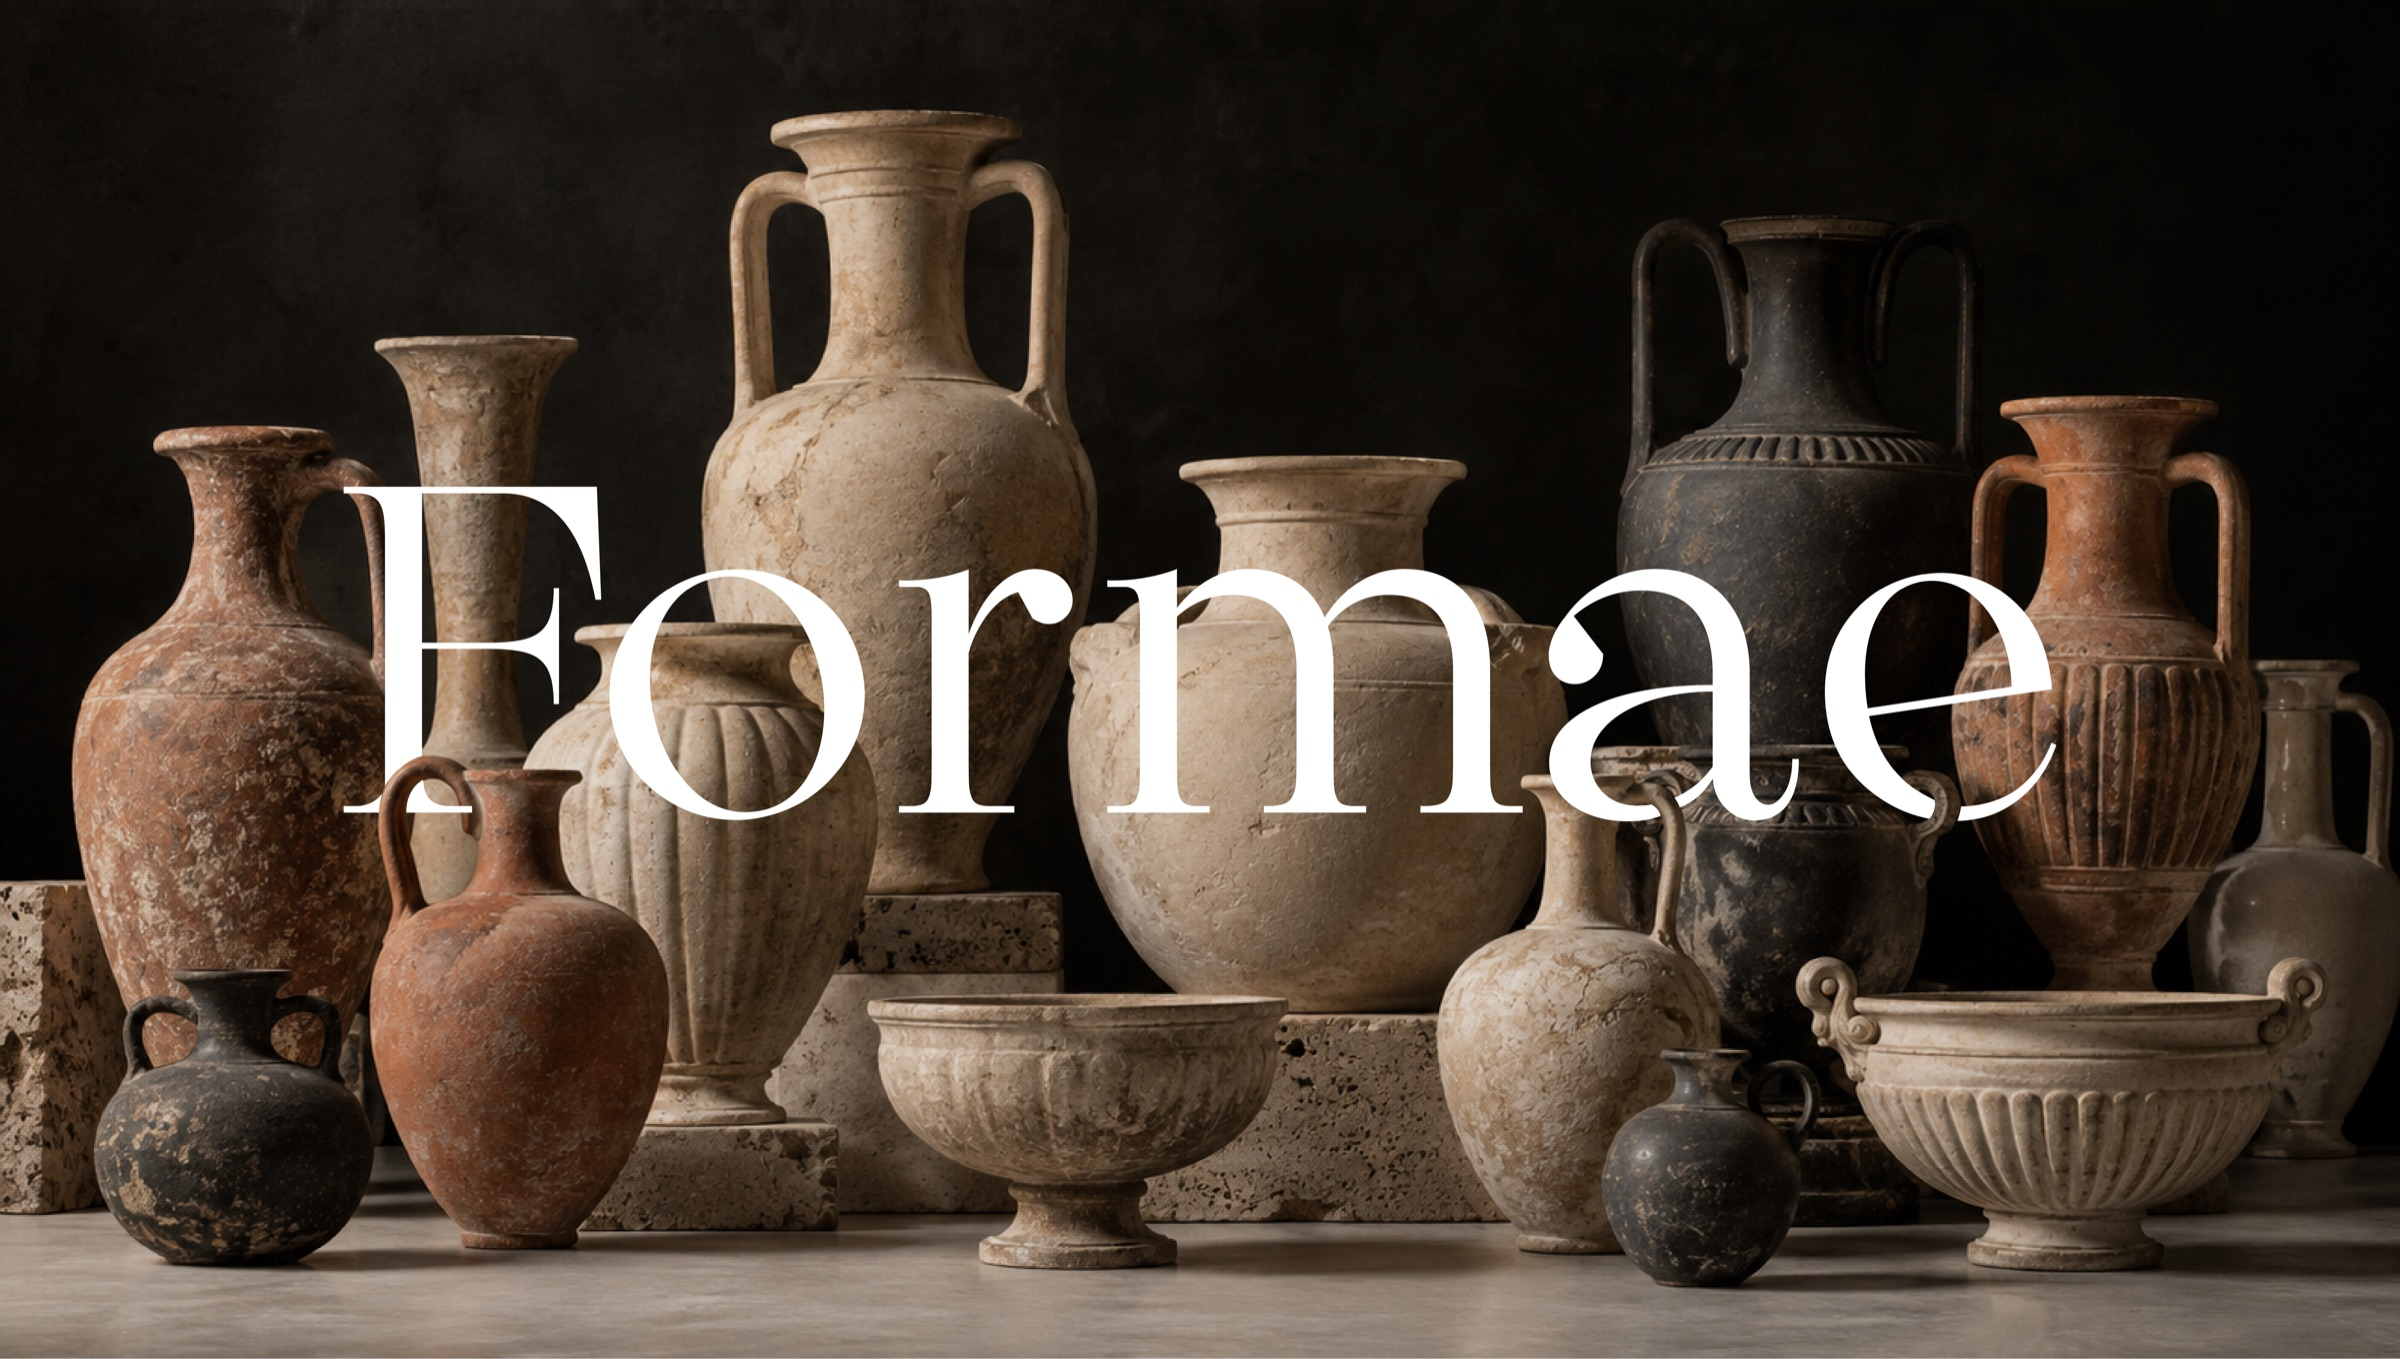
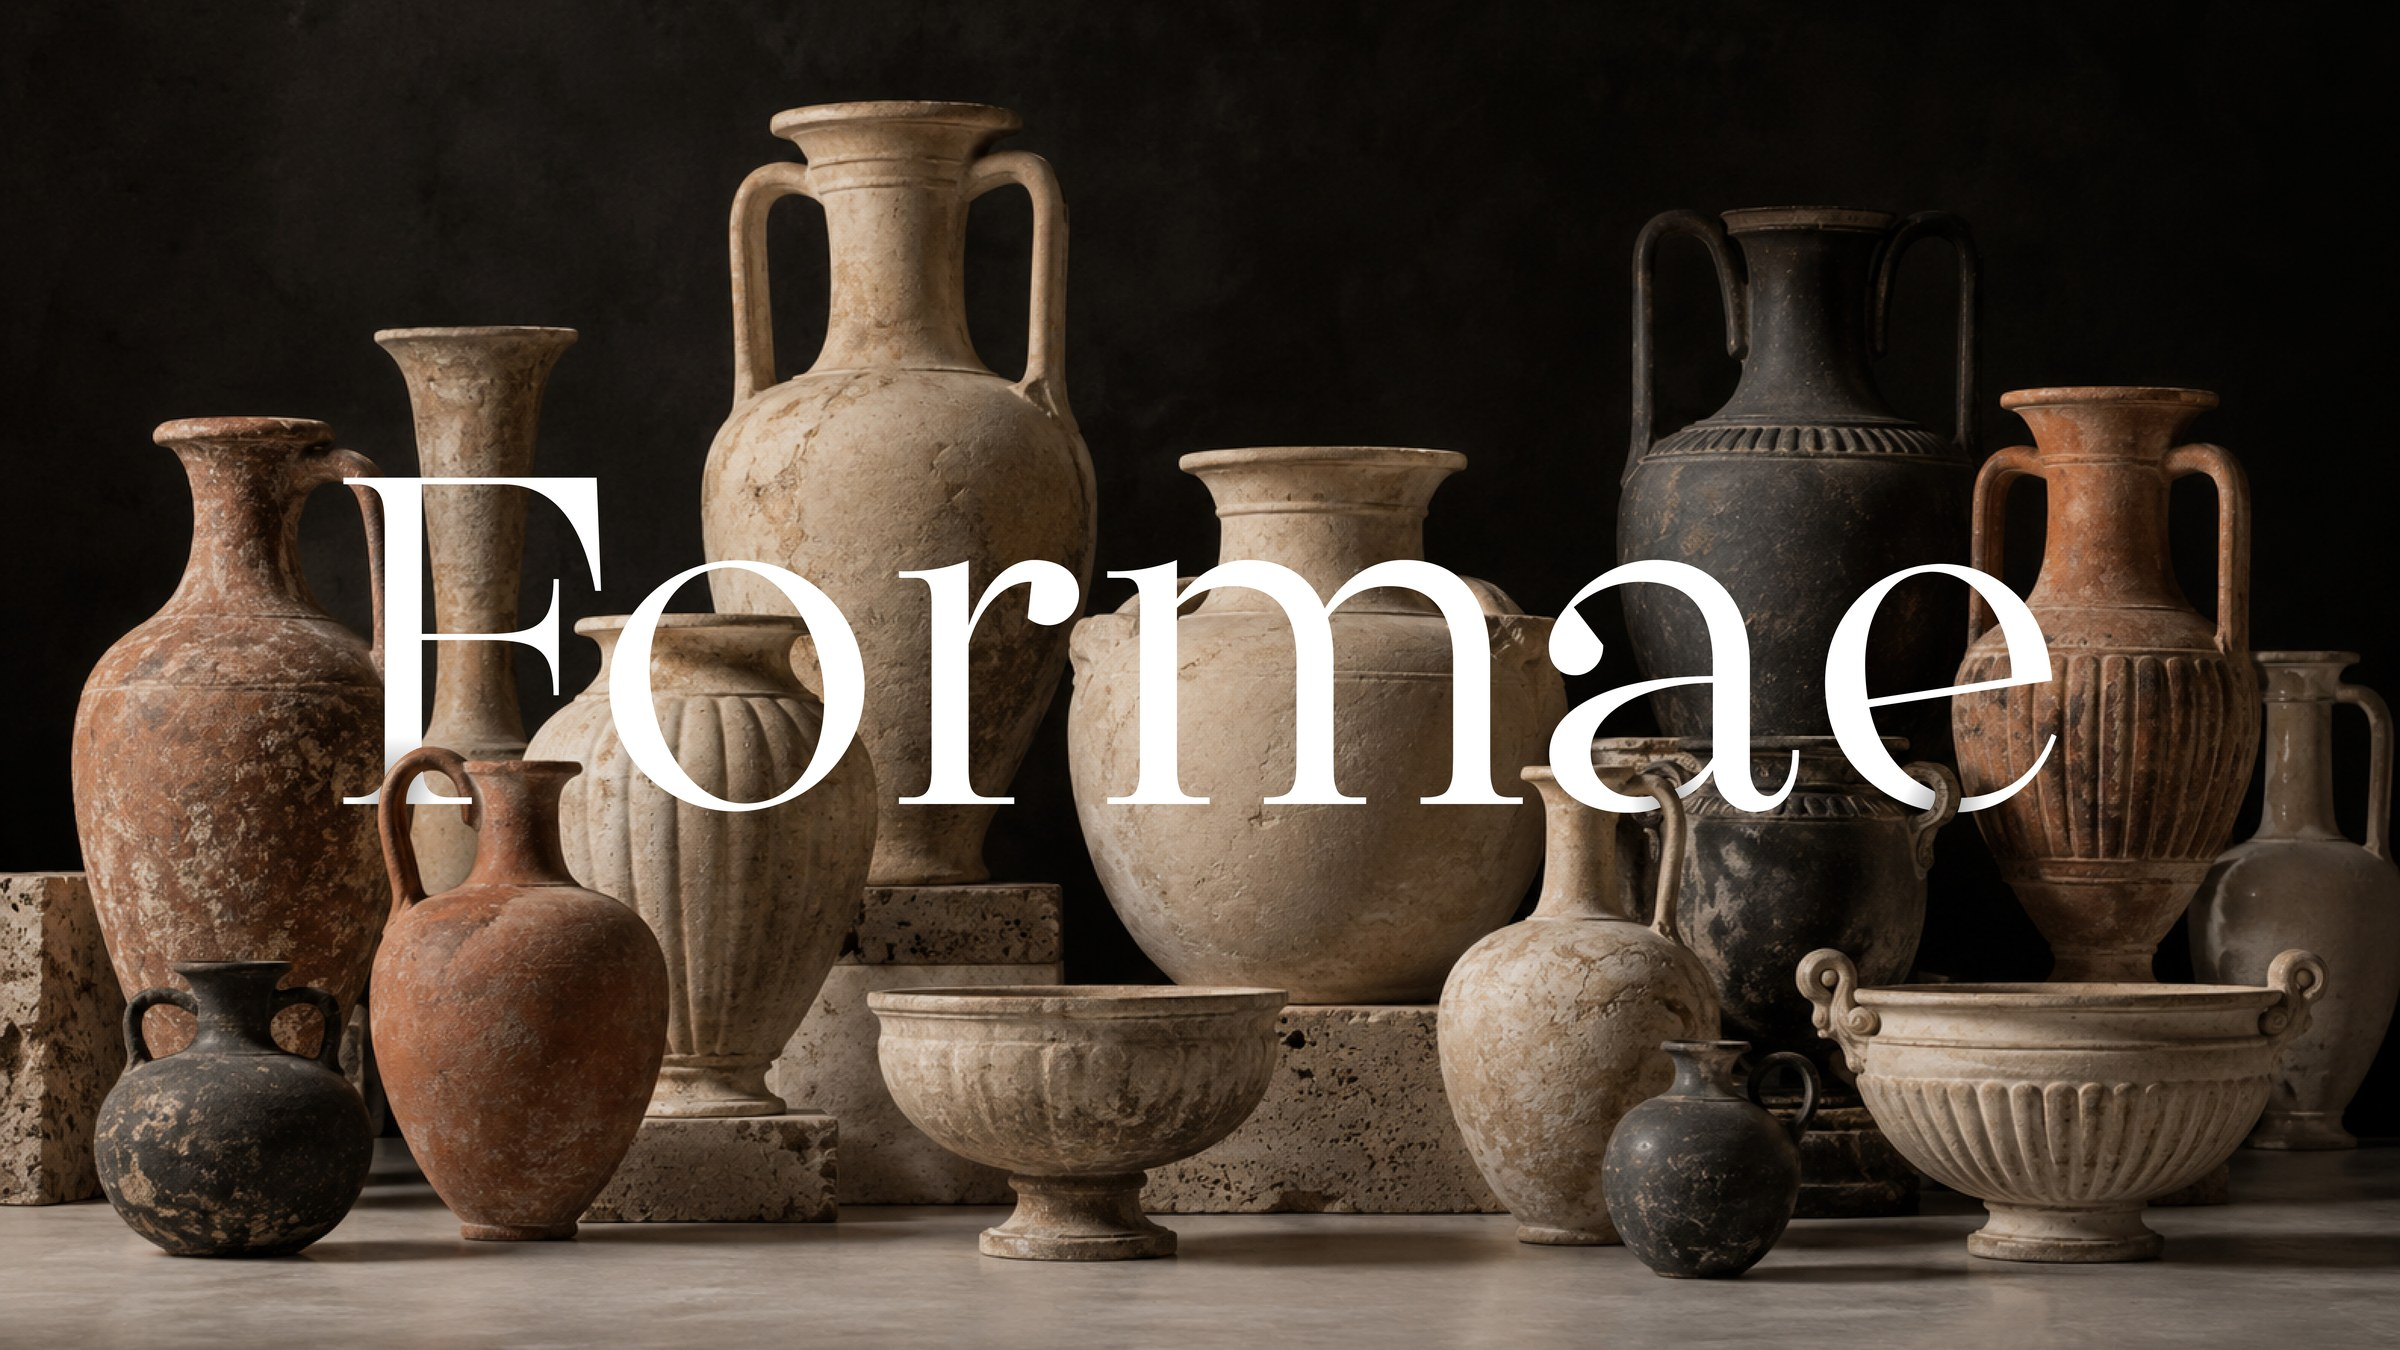
Formae: newest Formae-Regular (15:39) + new start image (repo 92c711b)

diff --git a/formae/index.html b/formae/index.html
@@ -7,7 +7,7 @@
 
   <title>Formae</title>
 
-  <link rel="stylesheet" href="style.css?v=widescale12">
+  <link rel="stylesheet" href="style.css?v=widescale14">
 </head>
 
 
@@ -43,7 +43,7 @@
   <main><div id="typefaces" aria-hidden="true"></div>
 
 <section class="formae-hero-section">
-      <img class="formae-hero" src="assets/formae-hero.jpg?v=2" alt="Formae" width="2400" height="1359">
+      <img class="formae-hero" src="assets/formae-hero.jpg?v=3" alt="Formae" width="2400" height="1350">
     </section>
 
 <section class="font-info" id="font-info" aria-labelledby="font-info-title">
@@ -910,7 +910,7 @@
   </style>
   <script>
     (function () {
-      var SEED_VERSION = "1f026ef";
+      var SEED_VERSION = "92c711b";
       if (localStorage.getItem("formae-shared-seed") === SEED_VERSION) return;
       localStorage.setItem("formae-section-order", "[\"sec-0\",\"sec-1\",\"font-info-copy\",\"sec-2\",\"sec-3\",\"sec-4\",\"sec-5\",\"sec-6\",\"sec-16\",\"sec-19\",\"sec-8\",\"sec-12\",\"sec-7\",\"sec-10\",\"sec-11\",\"sec-9\",\"sec-13\",\"sec-18\",\"sec-14\",\"sec-15\",\"sec-17\",\"about-black-2\",\"sec-20\",\"sec-21\",\"sec-22\",\"sec-23\",\"sec-24\",\"sec-25\",\"sec-26\"]");
       localStorage.setItem("formae-section-hidden", "[\"sec-13\",\"sec-18\",\"sec-14\",\"sec-16\",\"sec-25\",\"sec-22\",\"sec-21\",\"sec-20\",\"sec-1\"]");

diff --git a/formae/style.css b/formae/style.css
@@ -45,7 +45,7 @@
    were dropped); the latest export lives in formae/fonts/. */
 @font-face {
   font-family: "Formae";
-  src: url("fonts/Formae-Regular.woff2?v=30") format("woff2");
+  src: url("fonts/Formae-Regular.woff2?v=31") format("woff2");
   font-style: normal;
   font-weight: 400;
   font-display: swap;
@@ -2586,7 +2586,7 @@ main > section.specimen-image-section {
   .formae-hero {
     height: auto;
 
-    aspect-ratio: 2400 / 1359;
+    aspect-ratio: 2400 / 1350;
   }
 }
 
